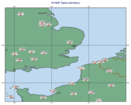
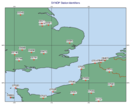
Fix method to plot station ids in bufr_synop_station_id.py

diff --git a/docs/gallery/bufr_synop_station_id.py b/docs/gallery/bufr_synop_station_id.py
@@ -37,16 +37,25 @@ gpt = mv.obsfilter(
 # read station ids into a list
 id_lst = mv.stnids(gpt)
 
-# define station id text plotting
+
+# since station ids can be non-numeric, we will need to use the 'text' mode
+# of msymb(). This requires associating each point with its text label, so we will
+# generate values of 1,2,3,4,...,N for the geopoints and create an msymb() that
+# maps each value to a station id.
+
+vals = list(range(len(gpt)+1))
+gpt = gpt.set_values(vals)
 sym_txt = mv.msymb(
     legend="off",
-    symbol_type="text",
-    symbol_colour="black",
-    symbol_text_list=id_lst,
-    symbol_text_position="top",
-    symbol_text_font_size=0.5,
-    symbol_text_blanking="on",
-)
+    symbol_type                          = "text",
+    symbol_table_mode                    = "advanced",
+    symbol_advanced_table_selection_type = "list",
+    symbol_advanced_table_level_list     = vals,
+    symbol_advanced_table_text_list      = id_lst,
+    symbol_advanced_table_text_font_size = 0.5,
+    symbol_advanced_table_text_display_type = "top",
+    symbol_text_blanking                 = "on", #  requires Magics >=4.8.1
+    )
 
 #  define station location plotting
 sym_loc = mv.msymb(
